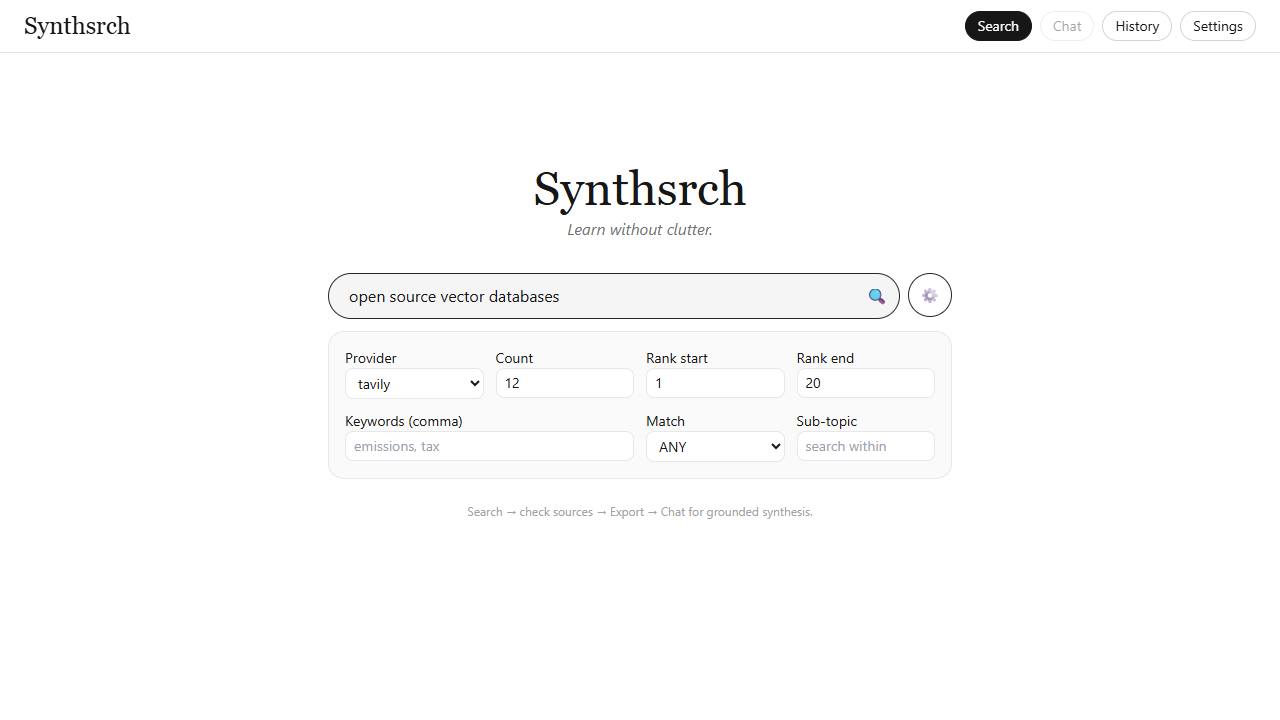
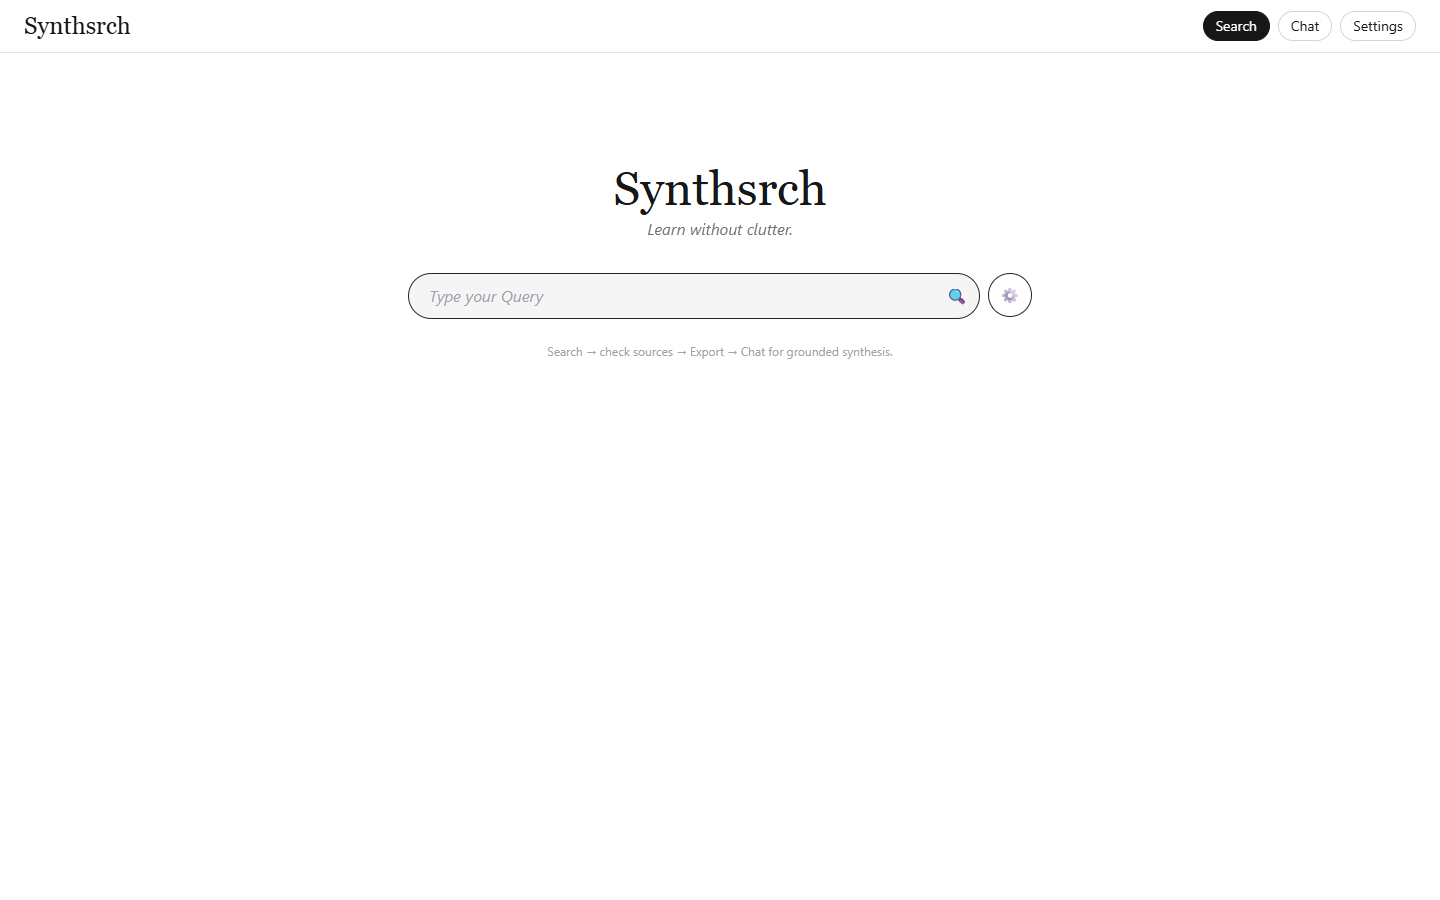
README: v2 screenshot tour (search, reader, grounded chat, sources drawer, settings)

diff --git a/README.md b/README.md
@@ -219,22 +219,38 @@ key (masked) and blanks never overwrite saved values.
 
 ## Usage
 
+![Search home](docs/images/01-search-home.png)
+
 1. **Search** — type a query, open ⚙ for provider (`auto` default) / count / rank
    bracket / keywords (`ANY`|`ALL`) / sub-topic. Results arrive as note cards;
    the `showing` line names the provider that answered.
+
+![Search results grid](docs/images/02-search-results.png)
+
 2. **Read** — click a card for clean text (`via trafilatura|crawl4ai`, char count
    shown) plus a **Read Article ↗** link. Filter further with *Search within
    these results* (free, local).
+
+![Extract reader with Read Article link](docs/images/03-extract-reader.png)
+
 3. **Synthesize** — check 2–5 cards → **Export → Chat**. Full text for every
    source is extracted automatically in the background (✓/…/✗ per source in
    the rail; Send unlocks when ready, failures retryable). Set topic, purpose,
    domain keywords, and model (or pick a saved pair from the `model:` widget);
    ask questions. Answers cite `[S1]`…`[Sn]`; a `⇄` pill explains any model
    switch and stays in history.
+
+![Grounded chat with sidebar, model widget, and citations](docs/images/04-chat-synthesis.png)
+
 4. **Manage sources mid-chat** — **Sources +/−**: remove duds, add from last
    results, run a new search, or paste any URL. The next answer uses the new set.
+
+![Sources drawer: current, last results, new search, paste URL](docs/images/05-sources-drawer.png)
+
 5. **Resume** — the sidebar lists every conversation across restarts, with
    per-chat delete and clear-all.
+
+![Settings with per-provider models and masked keys](docs/images/06-settings-keys.png)
 
 ## API reference (local)
 
